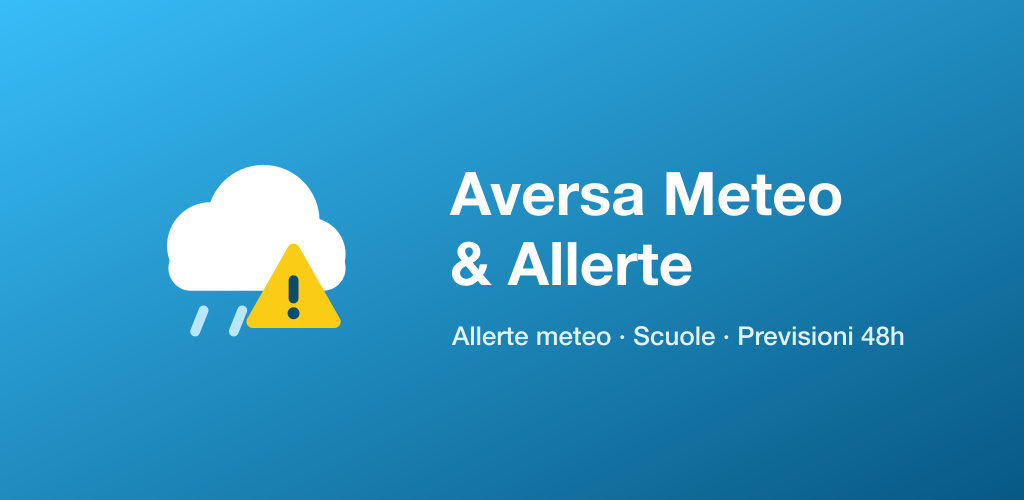
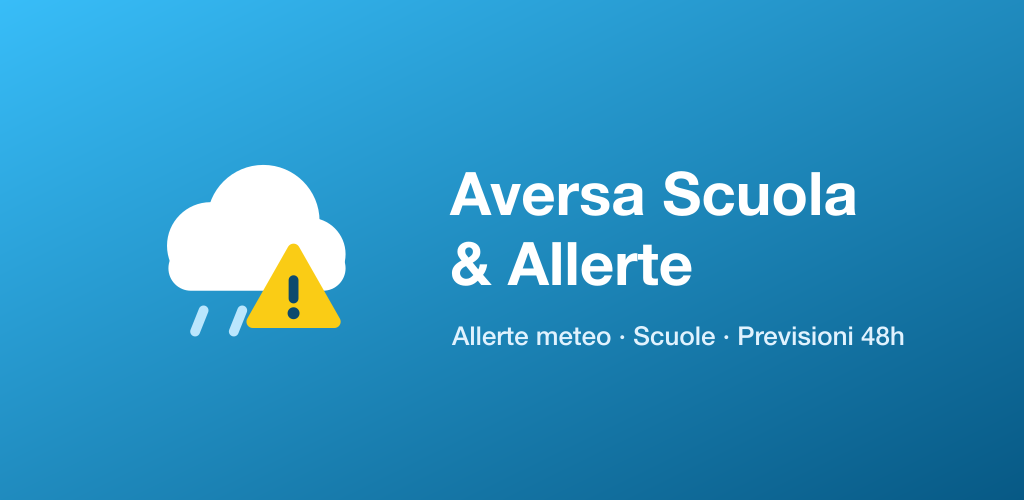
Ott. nome app

Changed region(s): [[0.625, 0.33, 0.8438, 0.45]]

diff --git a/index.html b/index.html
@@ -3,7 +3,7 @@
 <head>
   <meta charset="UTF-8">
   <meta name="viewport" content="width=device-width, initial-scale=1.0">
-  <title>Aversa Meteo & Allerte</title>
+  <title>Aversa Scuola & Allerte</title>
   <meta name="description" content="Meteo, allerte della Protezione Civile e stato delle scuole per Aversa (Zona 1 - Piana Campana).">
   <meta name="theme-color" content="#f1f5f9">
 
@@ -15,7 +15,7 @@
   <link rel="apple-touch-icon" href="./APPLE_ICON.png">
   <meta name="apple-mobile-web-app-capable" content="yes">
   <meta name="apple-mobile-web-app-status-bar-style" content="black-translucent">
-  <meta name="apple-mobile-web-app-title" content="Aversa Meteo">
+  <meta name="apple-mobile-web-app-title" content="Aversa Scuola">
 
   <!-- CSS Tailwind compilato (ricostruito da .github/workflows/build-css.yml) & Chart.js locale: funzionano anche offline -->
   <link rel="stylesheet" href="./styles.css">
@@ -44,11 +44,11 @@
       
       <!-- Icona App -->
       <div class="inline-flex p-4 bg-sky-50 rounded-3xl border border-sky-100 shadow-sm">
-        <img src="./APPLE_ICON.png" alt="Aversa Meteo Icon" class="w-20 h-20 rounded-2xl shadow-xs object-cover">
+        <img src="./APPLE_ICON.png" alt="Aversa Scuola & Allerte" class="w-20 h-20 rounded-2xl shadow-xs object-cover">
       </div>
 
       <div class="space-y-1">
-        <h1 class="text-2xl font-black text-slate-900 tracking-tight">Aversa Meteo & Allerte</h1>
+        <h1 class="text-2xl font-black text-slate-900 tracking-tight">Aversa Scuola & Allerte</h1>
         <p class="text-xs font-bold text-sky-600 uppercase tracking-wider">App su Google Play</p>
       </div>
 
@@ -117,7 +117,7 @@
 
       <!-- Intestazione superiore -->
       <div class="flex justify-between items-center text-sm font-semibold text-slate-600">
-        <span>Allerte Scuole e Meteo - Aversa</span>
+        <span>Aversa Scuola & Allerte</span>
         <button id="refreshBtn" onclick="refreshApp()" class="p-2 bg-slate-200/70 hover:bg-slate-300/70 rounded-full transition-colors text-slate-600 focus:outline-none" title="Ricarica dati">
           <svg id="refreshIcon" class="w-4 h-4 transition-transform origin-center" fill="none" stroke="currentColor" viewBox="0 0 24 24">
             <path stroke-linecap="round" stroke-linejoin="round" stroke-width="2.5" d="M4 4v5h.582m15.356 2A8.001 8.001 0 004.582 9m0 0H9m11 11v-5h-.581m0 0a8.003 8.003 0 01-15.357-2m15.357 2H15"></path>

diff --git a/privacy.html b/privacy.html
@@ -3,7 +3,7 @@
 <head>
   <meta charset="UTF-8">
   <meta name="viewport" content="width=device-width, initial-scale=1.0">
-  <title>Informativa sulla Privacy - Aversa Meteo & Allerte</title>
+  <title>Informativa sulla Privacy - Aversa Scuola & Allerte</title>
   
   <meta name="theme-color" content="#f8fafc">
   <link rel="stylesheet" href="./styles.css">
@@ -18,7 +18,7 @@
         Informativa sulla Privacy
       </div>
       <h1 class="text-2xl sm:text-3xl font-black text-slate-900 tracking-tight">
-        Aversa Meteo & Allerte
+        Aversa Scuola & Allerte
       </h1>
       <p class="text-xs text-slate-400 mt-1">Ultimo aggiornamento: 10 Novembre 2026</p>
     </div>
@@ -26,7 +26,7 @@
     <!-- Introduzione -->
     <section class="space-y-2 text-sm text-slate-600 leading-relaxed">
       <p>
-        La presente Informativa sulla Privacy descrive le modalità con cui l'applicazione <strong>Aversa Meteo & Allerte</strong> (di seguito "l'Applicazione") tratta e tutela i dati degli utenti in conformità al Regolamento Generale sulla Protezione dei Dati (GDPR - UE 2016/679) e alle linee guida per gli sviluppatori di Google Play.
+        La presente Informativa sulla Privacy descrive le modalità con cui l'applicazione <strong>Aversa Scuola & Allerte</strong> (di seguito "l'Applicazione") tratta e tutela i dati degli utenti in conformità al Regolamento Generale sulla Protezione dei Dati (GDPR - UE 2016/679) e alle linee guida per gli sviluppatori di Google Play.
       </p>
       <p>
         L'Applicazione è un progetto indipendente: <strong>non è affiliata, approvata o gestita</strong> dal Dipartimento della Protezione Civile, dalla Regione Campania o dal Comune di Aversa. Le informazioni mostrate provengono da fonti pubbliche ufficiali (indicate più avanti), che restano l'unico riferimento valido in caso di emergenza.

diff --git a/store/README-PLAYSTORE.md b/store/README-PLAYSTORE.md
@@ -3,7 +3,7 @@
 Sito servito da Cloudflare Pages: https://allerta-meteo-aversa.pages.dev
 Pacchetto Android: `dev.pages.allerta_meteo_aversa.twa`
 
-## 1. Generare il nuovo pacchetto Android (versione 2 / 1.1.0)
+## 1. Generare il pacchetto Android (ultima: versione 3 / 1.2.0)
 
 Il sito riconosce l'app dal referrer `android-app://dev.pages.allerta_meteo_aversa.twa`,
 quindi l'URL di avvio deve essere semplicemente `/`.
@@ -14,7 +14,7 @@ Il vecchio codice `?app_license=...` non è più accettato: il pacchetto del 10/
 1. Apri https://www.pwabuilder.com, inserisci `https://allerta-meteo-aversa.pages.dev`.
 2. Package for stores → Android → Options:
    - Package ID: `dev.pages.allerta_meteo_aversa.twa`
-   - Version code: `2`, Version name: `1.1.0`
+   - Version code: `3`, Version name: `1.2.0`
    - URL di avvio: `/` (senza `?app_license`)
    - Signing key: **Use mine** → carica `signing.keystore` della cartella
      "Meteo Aversa - Google Play package" (alias `my-key-alias`, password in `signing-key-info.txt`).
@@ -51,14 +51,14 @@ File pronti in questa cartella:
 **Screenshot (da fare sul telefono):** almeno 2, meglio 4, in verticale (es. 1080×1920):
 scheda "Oggi" con allerta e scuole, grafico orario, scheda "Previsioni", stato allerta gialla/arancione se capita.
 
-**Nome (max 30):** Aversa Meteo & Allerte
+**Nome (max 30):** Aversa Scuola & Allerte
 
 **Descrizione breve (max 80):**
 Allerte meteo, chiusura scuole e previsioni per Aversa e l'agro aversano.
 
 **Descrizione completa:**
 ```
-Aversa Meteo & Allerte riunisce in un'unica schermata le informazioni utili ogni mattina a chi vive ad Aversa e nell'agro aversano.
+Aversa Scuola & Allerte riunisce in un'unica schermata le informazioni utili ogni mattina a chi vive ad Aversa e nell'agro aversano.
 
 • Allerta meteo per la Zona 1 (Piana Campana), aggiornata dai bollettini pubblici della Protezione Civile
 • Stato delle scuole di Aversa, con link all'avviso o all'ordinanza del Comune quando presente
